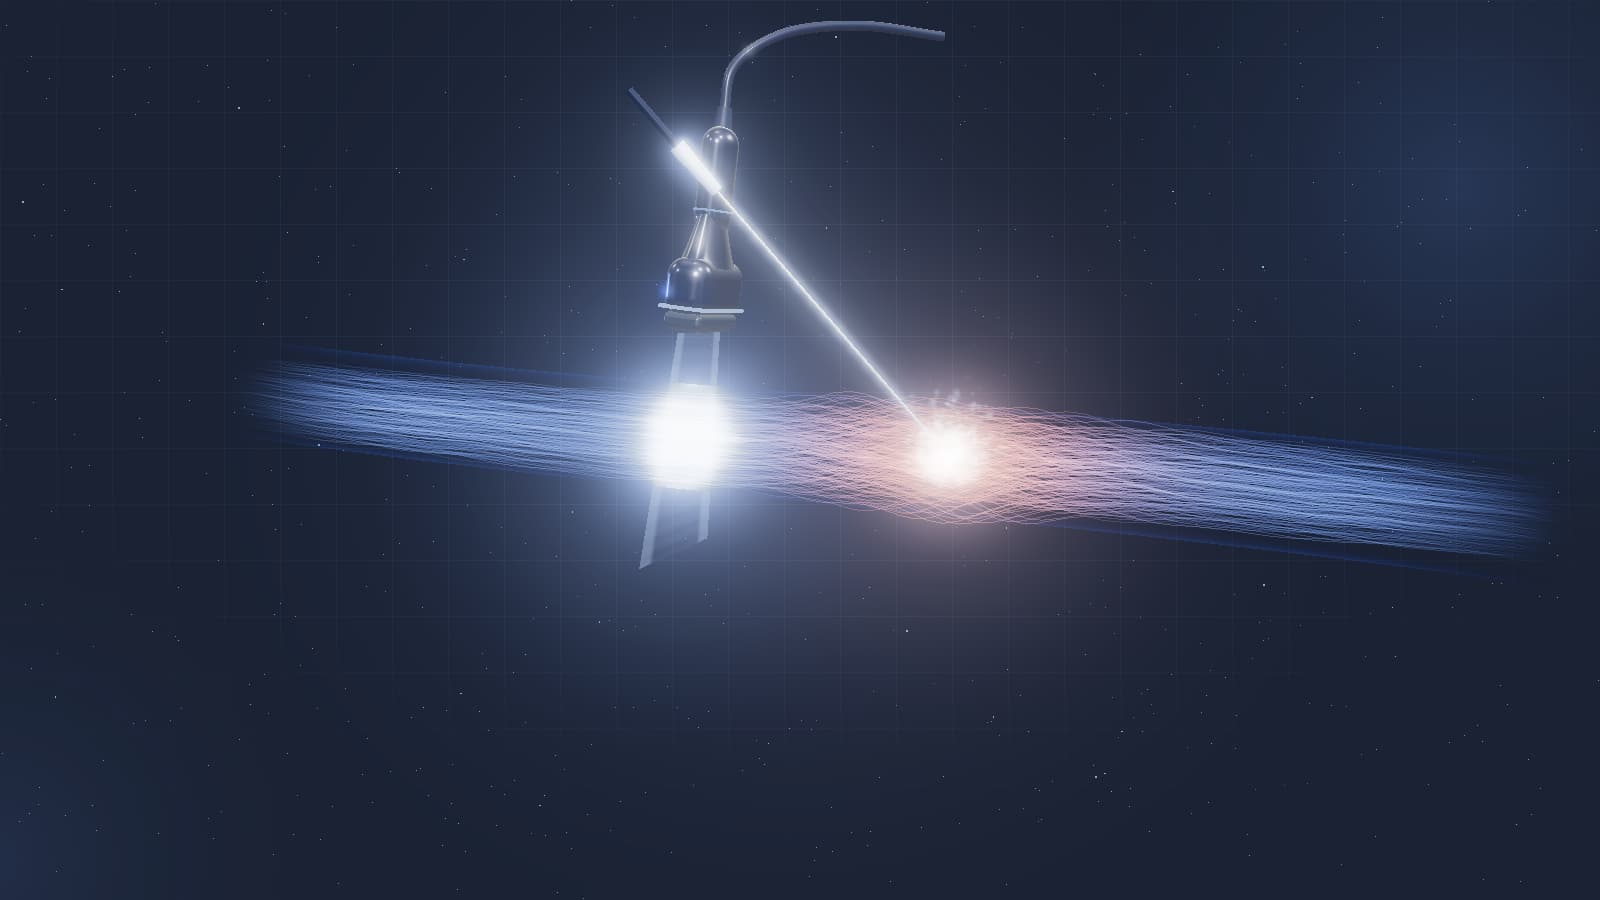
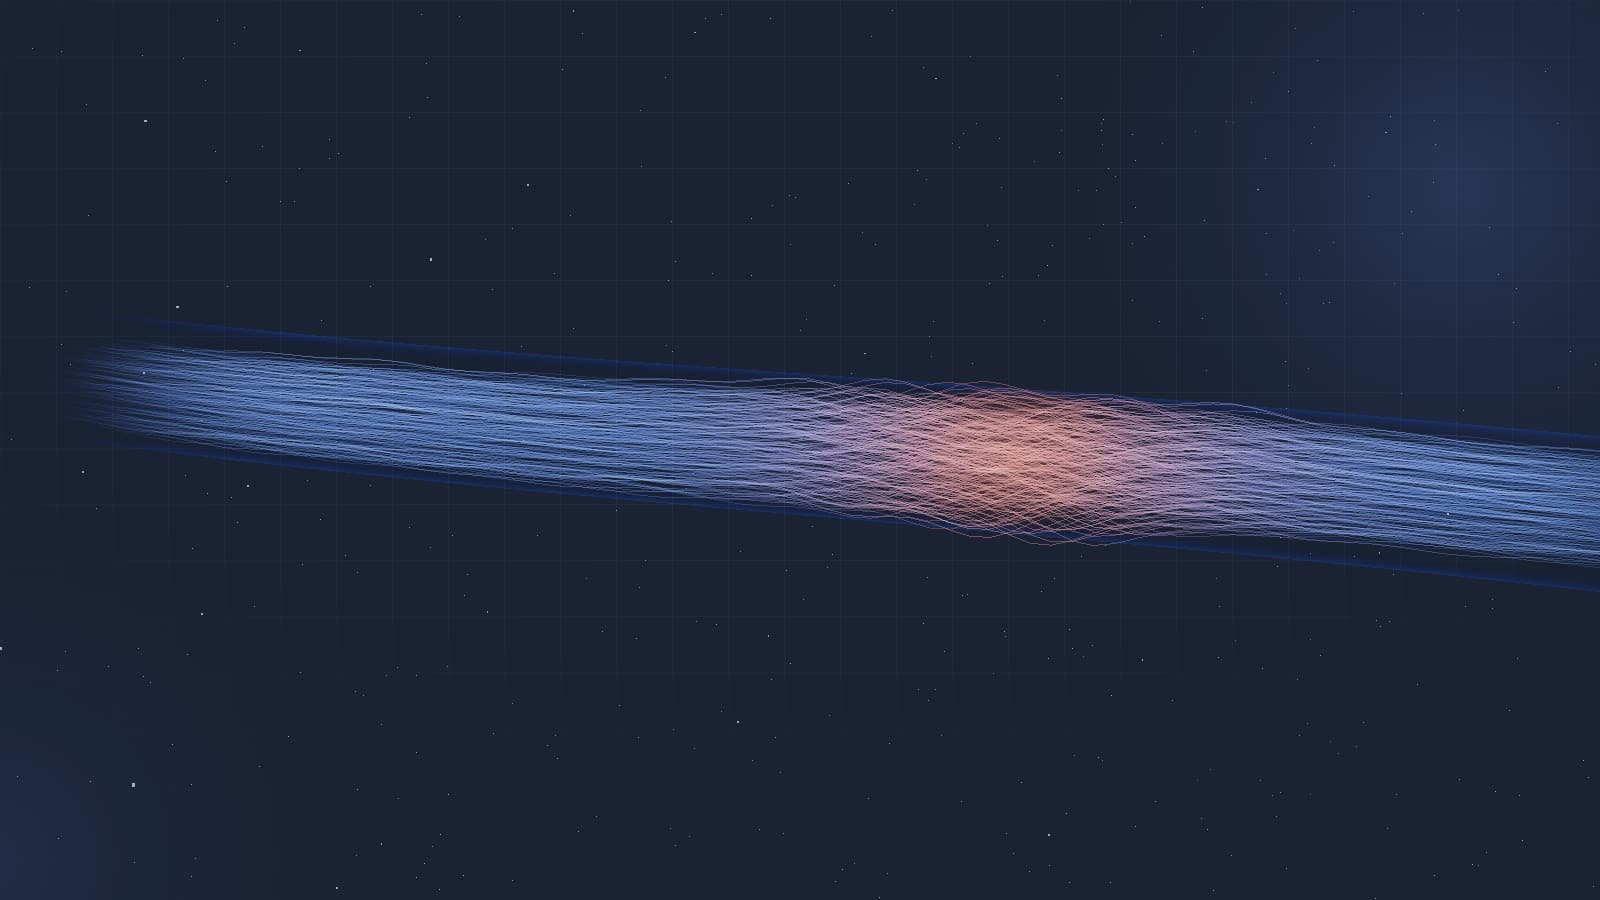
Portada con el tejido tendinoso 3D de fondo; sonda, aguja y vista ecográfica pasan a Metodología

Changed region(s): [[0.0625, 0.0, 1.0, 0.7467]]

diff --git a/src/scripts/xp.js b/src/scripts/xp.js
@@ -1,5 +1,5 @@
 // Experiencias 3D en vivo (Three.js), cargadas sin frenar la página:
-//  - Portada (#xp): escena ambiental (sonda escaneando, aguja con energía).
+//  - Portada (#xp): tejido tendinoso animado (sin sonda ni aguja).
 //  - Metodología (#metodo): la misma escena cuenta los 4 pasos con el scroll.
 // Se cargan con la primera interacción del usuario; mientras tanto se ve un render fijo.
 // Solo se dibuja la escena que está en pantalla.
@@ -42,10 +42,13 @@ async function startHero() {
   const m = await mount(wrap, document.getElementById('xp-canvas'), '[data-xp-poster]');
   if (!m) return;
   const s = m.xp.state;
-  s.offsetX = mobile ? 0 : 1.7;
-  if (mobile) Object.assign(s.cam, { x: 0, y: 1.1, z: 10.5 });
+  // La portada muestra solo el tejido tendinoso (fibras animadas): la sonda y la aguja
+  // aparecen recién en la sección Metodología.
+  Object.assign(s, { insert: 0, energy: 0, scanOn: 0, scanAuto: 0, offsetX: mobile ? 0 : 1.5 });
+  Object.assign(s.cam, mobile ? { x: 0, y: 1.0, z: 9.5 } : { x: -0.6, y: 0.9, z: 8.2 });
+  Object.assign(s.look, { x: 0.4, y: 0, z: 0 });
   // Al salir de la portada la cámara se acerca levemente
-  m.gsap.to(s.cam, { z: mobile ? 9 : 9.5, y: 1.6, ease: 'none', scrollTrigger: { trigger: wrap, start: 'top top', end: 'bottom top', scrub: 1 } });
+  m.gsap.to(s.cam, { z: mobile ? 8.5 : 7.2, y: 1.3, ease: 'none', scrollTrigger: { trigger: wrap, start: 'top top', end: 'bottom top', scrub: 1 } });
 }
 
 // ---------------------------------------------------------------- Metodología (historia por scroll)
